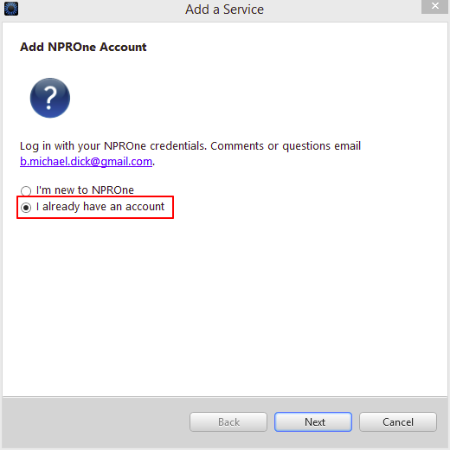
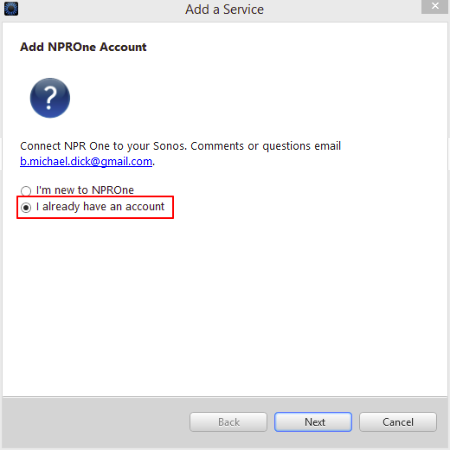
Updates for Sonos NPR One device link

Changed region(s): [[0.0311, 0.3111, 0.8089, 0.3733]]

diff --git a/sonosnpr.md b/sonosnpr.md
@@ -13,10 +13,12 @@ Welcome to my *unofficial* NPR One service for Sonos. I love my Sonos system and
 
 **Updates**
 
+06/10/2015: Updated authentication to use device connect through the NPR website(using OAuth). If you previously added the service, it will ask you to re-authenticate (you might have to update the service configuration on your customsd.htm). Also improved search to include aggregation lists of shows and podcasts.
+
 03/25/2015: Added Search and Suggestions - Now you can search through the NPR archive using the Sonos search. If you have previously added the service, make sure to update the settings to include search and update the version on the presentation map.
 
 ### Before you start
-You will need a NPR One account. You can create one for free by downloading the [NPR One app](http://www.npr.org/about/products/npr-one/), or right on the [NPR website](http://www.npr.org/templates/reg/). Make sure to sign up with username/password, because currently my Sonos service does not yet work with the Facebook or Google login. If you signed up with one of those services, you can set a password at [npr.org](https://npr.org/login).
+You will need a NPR One account. You can create one for free by downloading the [NPR One app](http://www.npr.org/about/products/npr-one/), or right on the [NPR website](http://www.npr.org/templates/reg/).
 
 ### Adding NPROne to your Sonos
 Open your Sonos desktop app and go to Help ->  About my Sonos System...
@@ -36,7 +38,7 @@ Enter the information below into the form and hit submit. This will add the serv
 3. **Endpoint URL:** http://sonosnprone.herokuapp.com/soap
 4. **Secure Endpoint URL:** https://sonosnprone.herokuapp.com/soap
 5. **Polling Interval:** 3600
-6. **Authentication SOAP header policy:** Session ID
+6. **Authentication SOAP header policy:** Device Link
 7. **Strings table:** 
  * Version: 2
  * Uri: http://sonosnprone.herokuapp.com/static/strings.xml
@@ -51,7 +53,7 @@ Enter the information below into the form and hit submit. This will add the serv
  * Playback event logging during track play
  * Extended Metadata (for MOAPI-based InfoView)
  
-![screenshot](/img/sonos-nprone/sonos-add2.png)
+![screenshot](/img/sonos-nprone/sonos-add3.png)
 
 Go back to your Sonos app and choose Add Music Service. You should now find NPROne in the list of services.
 
@@ -61,9 +63,13 @@ Select I already have an account.
 
 ![screenshot](/img/sonos-nprone/sonos-add-1.png)
 
-Log in with your NPR One username and password.
+Open [http://npr.org/device](http://npr.org/device) and enter the code shown in the Sonos window.
 
 ![screenshot](/img/sonos-nprone/sonos-add-2.png)
+
+Allow access for the NPR One Sonos app. You might have to log in first with your NPR One credentials if you haven't done already.
+
+![screenshot](/img/sonos-nprone/sonos-add-3.png)
 
 Now you are all set and can start listening to NPR One. You can skip and favourite stories just like in the NPR One app. Changing your NPR home station is currently not supported, however if you change it in the NPROne mobile app, the Sonos service will pick up the new station.
 
